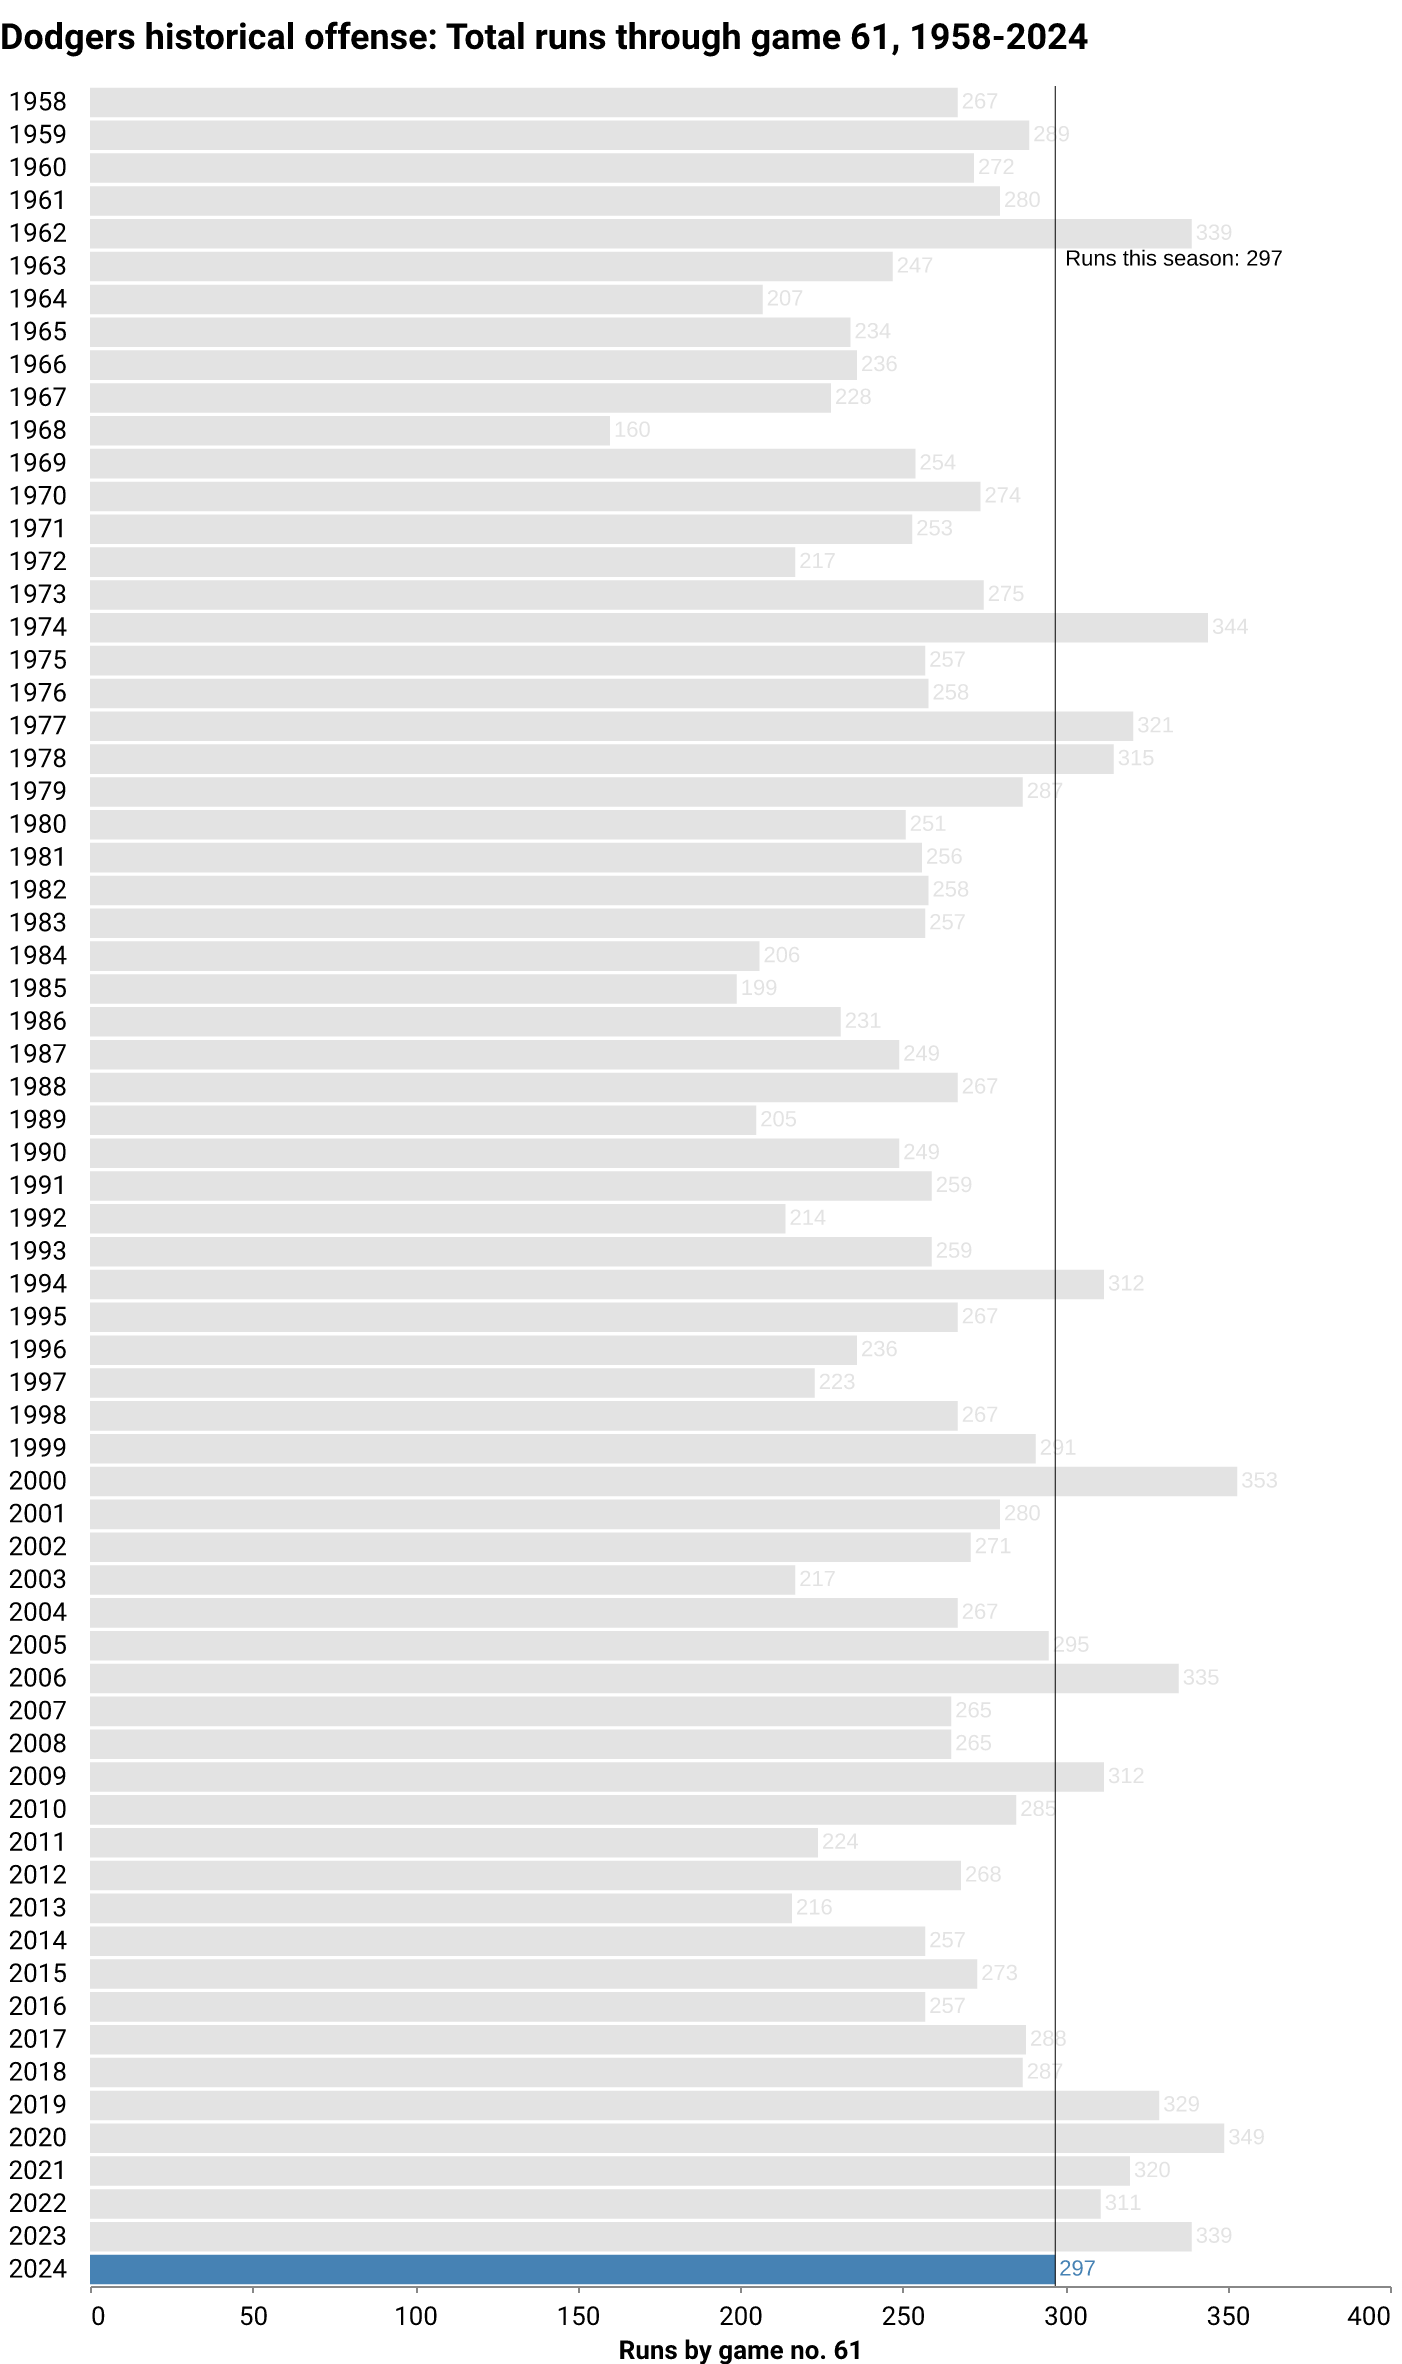
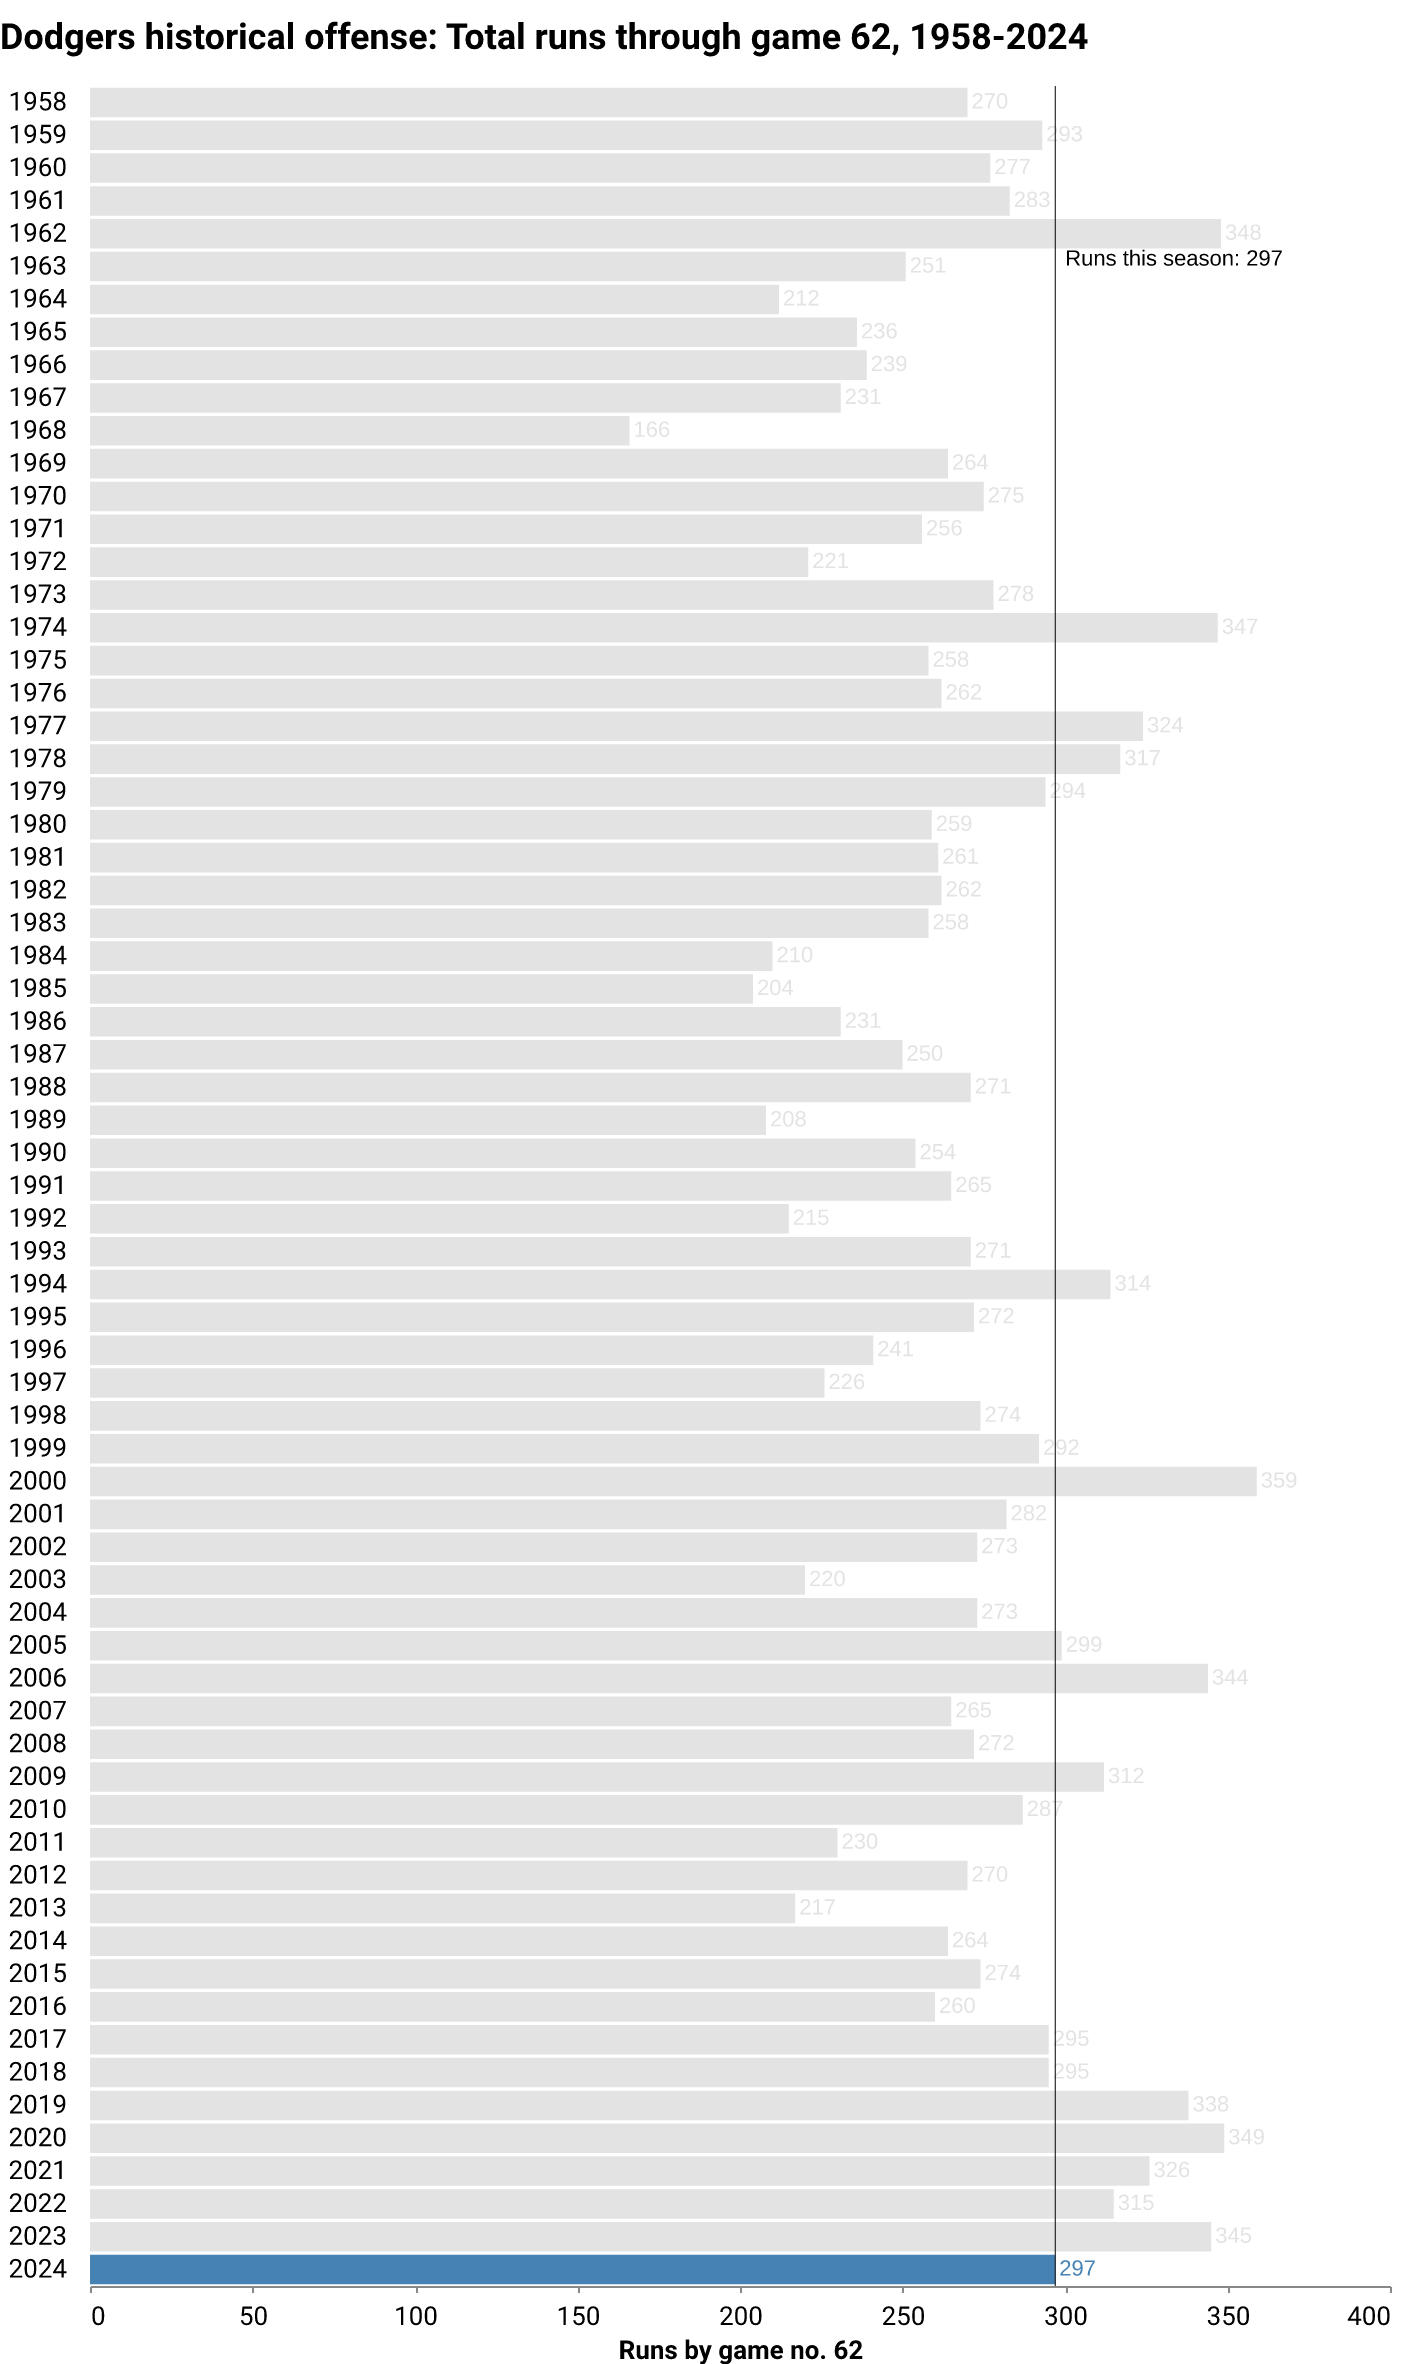
deploy: fe4e742e1d95e12f8d023058d6becb68fb2e849e

diff --git a/index.html b/index.html
@@ -177,14 +177,14 @@
     
     
     
-        <i class="fa-solid fa-arrow-trend-up" style="color: #005a9c;"></i>
+        <i class="fa-solid fa-arrow-trend-down" style="color: #ef3e42;"></i>
     
 </div>
 <h1 class="headline">How are the Dodgers doing?</h1>
 <p class="subhead">
     
     
-    <span class="highlight">LOS ANGELES</span> <span class="updated">(June 5)</span> — After <span class="highlight">61</span> games this season, the Dodgers are in <span class="highlight">1st</span> place in the National League West division. The team has compiled a <span class="highlight">38-23</span> record, winning <span class="highlight">62%</span> of its games so far. The last game was a <span class="highlight">4-0</span> home <span class="highlight">win</span> against the Colorado Rockies in front of <span class="highlight">48,251</span> fans. They've won <span class="highlight">5 of the last 10</span>.
+    <span class="highlight">LOS ANGELES</span> <span class="updated">(June 5)</span> — After <span class="highlight">62</span> games this season, the Dodgers are in <span class="highlight">1st</span> place in the National League West division. The team has compiled a <span class="highlight">38-24</span> record, winning <span class="highlight">61%</span> of its games so far. The last game was a <span class="highlight">0-1</span> away <span class="highlight">loss</span> against the Pittsburgh Pirates in front of <span class="highlight">24,168</span> fans. They've won <span class="highlight">5 of the last 10</span>.
 </p>
 </div>
 
@@ -222,10 +222,10 @@
             Losses
           </div>
           <div class="card-body">
-            <p class="card-text">23</p>
+            <p class="card-text">24</p>
           </div>
           <div class="card-footer text-muted">
-        This point last season: 26
+        This point last season: 27
           </div>
         </div>
       </div>
@@ -238,10 +238,10 @@
             Record
           </div>
           <div class="card-body">
-            <p class="card-text">38-23</p>
+            <p class="card-text">38-24</p>
           </div>
           <div class="card-footer text-muted">
-        This point last season: 35-26
+        This point last season: 35-27
           </div>
         </div>
       </div>
@@ -254,7 +254,7 @@
             Win percentage
           </div>
           <div class="card-body">
-            <p class="card-text">62%</p>
+            <p class="card-text">61%</p>
           </div>
           <div class="card-footer text-muted">
         This point last season: 56%
@@ -270,7 +270,7 @@
             Games up/back
           </div>
           <div class="card-body">
-            <p class="card-text">6.5</p>
+            <p class="card-text">7.0</p>
           </div>
           <div class="card-footer text-muted">
         Division rank: 1
@@ -318,10 +318,10 @@
             Runs against
           </div>
           <div class="card-body">
-            <p class="card-text">211</p>
+            <p class="card-text">212</p>
           </div>
           <div class="card-footer text-muted">
-        This point last season: 285
+        This point last season: 293
           </div>
         </div>
       </div>
@@ -334,10 +334,10 @@
             Run differential
           </div>
           <div class="card-body">
-            <p class="card-text">86</p>
+            <p class="card-text">85</p>
           </div>
           <div class="card-footer text-muted">
-        This point last season: 54
+        This point last season: 52
           </div>
         </div>
       </div>
@@ -408,7 +408,7 @@
             Batting average
           </div>
           <div class="card-body">
-            <p class="card-text">.256</p>
+            <p class="card-text">.255</p>
           </div>
           <div class="card-footer text-muted">
         Last decade average: .253
@@ -440,7 +440,7 @@
             Home runs/game
           </div>
           <div class="card-body">
-            <p class="card-text">1.26</p>
+            <p class="card-text">1.24</p>
           </div>
           <div class="card-footer text-muted">
         Last decade average: 1.36
@@ -456,7 +456,7 @@
             On-base percentage
           </div>
           <div class="card-body">
-            <p class="card-text">.334</p>
+            <p class="card-text">.333</p>
           </div>
           <div class="card-footer text-muted">
         Last decade average: .332
@@ -472,10 +472,10 @@
             Stolen bases
           </div>
           <div class="card-body">
-            <p class="card-text">37</p>
+            <p class="card-text">38</p>
           </div>
           <div class="card-footer text-muted">
-        League rank: 8
+        League rank: 7
           </div>
         </div>
       </div>
@@ -598,7 +598,7 @@
             Strikeouts
           </div>
           <div class="card-body">
-            <p class="card-text">520</p>
+            <p class="card-text">533</p>
           </div>
           <div class="card-footer text-muted">
         League rank: 5
@@ -614,10 +614,10 @@
             Walks
           </div>
           <div class="card-body">
-            <p class="card-text">179</p>
+            <p class="card-text">181</p>
           </div>
           <div class="card-footer text-muted">
-        League rank: 7
+        League rank: 6
           </div>
         </div>
       </div>
@@ -630,7 +630,7 @@
             ERA
           </div>
           <div class="card-body">
-            <p class="card-text">3.22</p>
+            <p class="card-text">3.19</p>
           </div>
           <div class="card-footer text-muted">
         League rank: 2
@@ -708,7 +708,7 @@
     </div>
 </div>
 
-  <p class="dated">Notes: Last updated June 5, 2024, 12:03 AM PT. More <a href="https://github.com/stiles/dodgers/blob/main/README.md">about the data</a>.</p>
+  <p class="dated">Notes: Last updated June 5, 2024, 4:03 AM PT. More <a href="https://github.com/stiles/dodgers/blob/main/README.md">about the data</a>.</p>
   
 </div>
 
